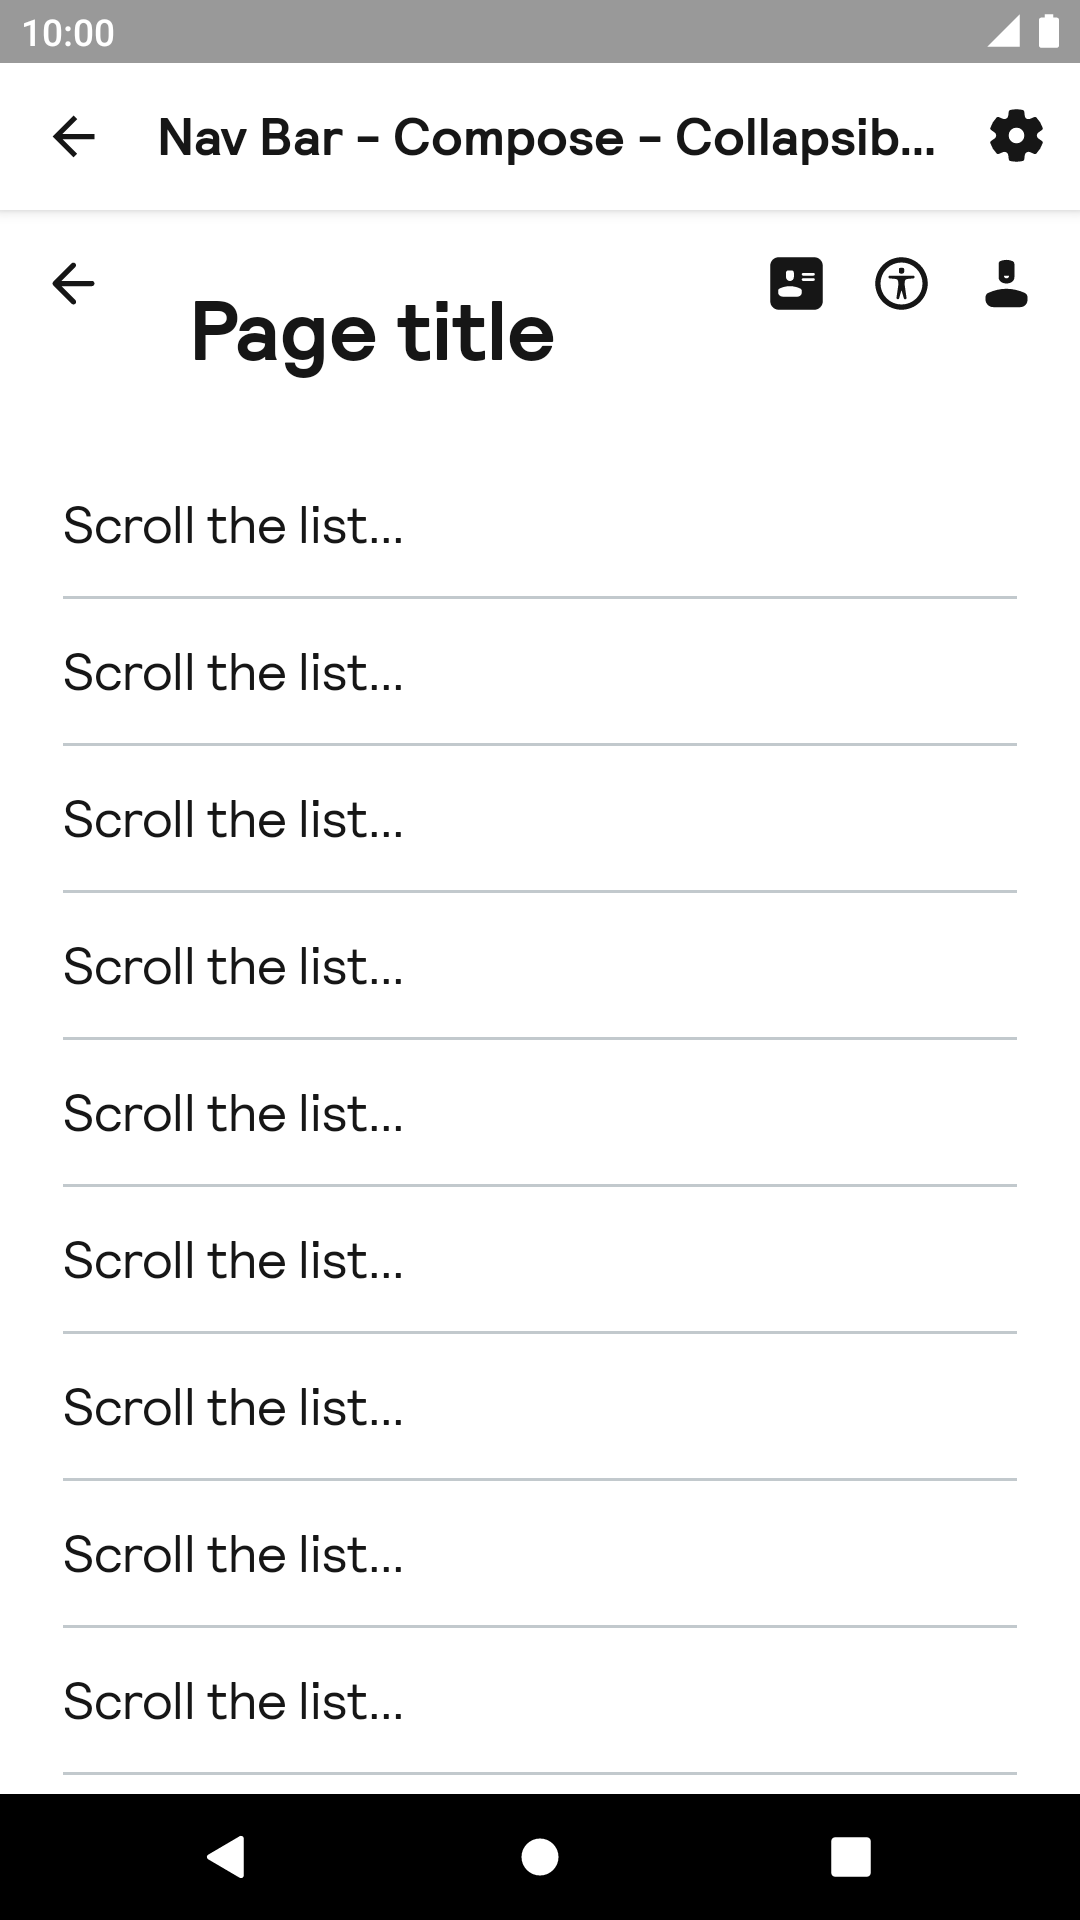
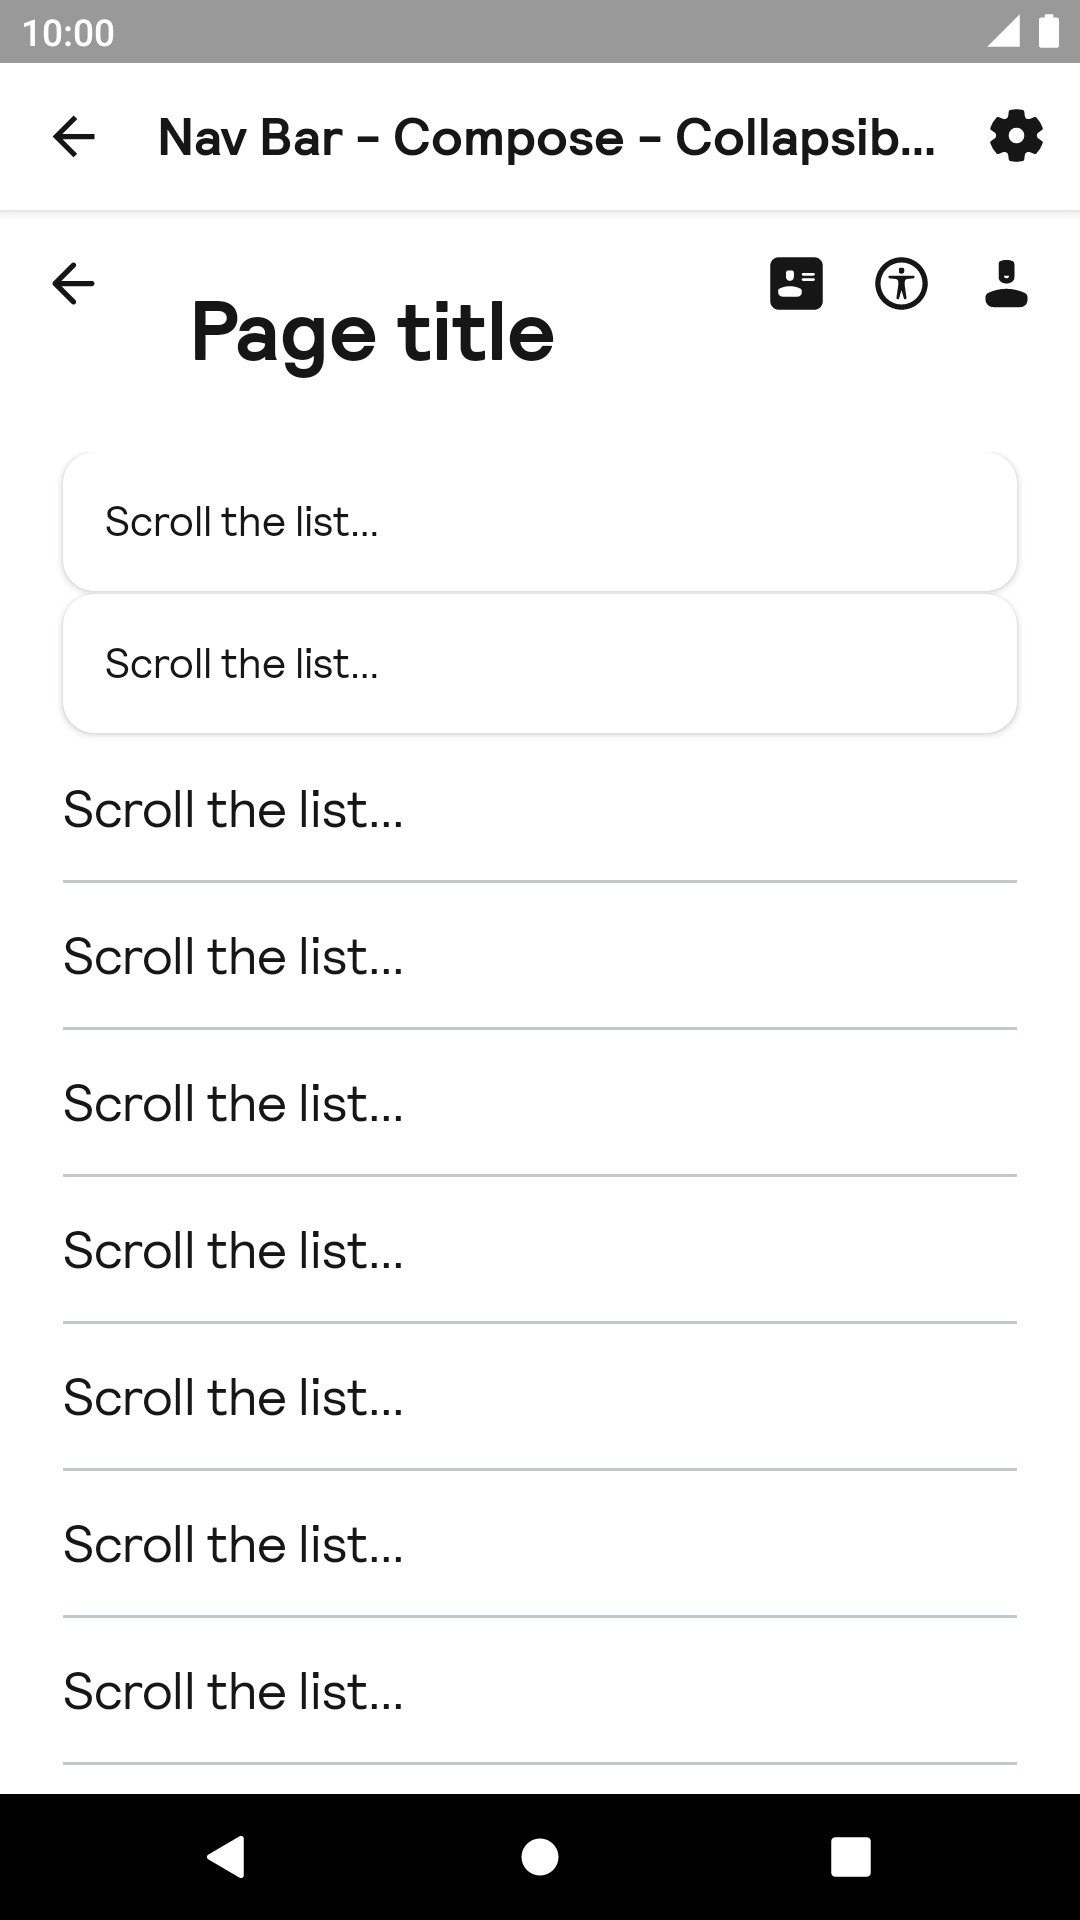
SONIC-1362 Fix BpkTopNavBar scrollable elevation (#1436)
* SONIC-1362 add zIndex to BpkTopNavBarImpl to draw it on top of other components

* SONIC-1362 add zIndex to BpkTopNavBarImpl to draw it on top of other components

* SONIC-1362 add new screenshots

* SONIC-1362 change zIndex value to 1f

---------

diff --git a/app/src/main/java/net/skyscanner/backpack/demo/compose/CollapsibleNavigationBarStory.kt b/app/src/main/java/net/skyscanner/backpack/demo/compose/CollapsibleNavigationBarStory.kt
@@ -20,12 +20,17 @@ package net.skyscanner.backpack.demo.compose
 
 import androidx.compose.foundation.layout.Column
 import androidx.compose.foundation.layout.WindowInsets
+import androidx.compose.foundation.layout.fillMaxWidth
+import androidx.compose.foundation.layout.padding
 import androidx.compose.foundation.layout.statusBars
 import androidx.compose.foundation.lazy.LazyColumn
 import androidx.compose.runtime.Composable
 import androidx.compose.ui.Modifier
+import androidx.compose.ui.draw.alpha
 import androidx.compose.ui.res.stringResource
 import androidx.compose.ui.tooling.preview.Preview
+import net.skyscanner.backpack.compose.card.BpkCard
+import net.skyscanner.backpack.compose.divider.BpkDivider
 import net.skyscanner.backpack.compose.icon.BpkIcon
 import net.skyscanner.backpack.compose.navigationbar.BpkTopNavBar
 import net.skyscanner.backpack.compose.navigationbar.IconAction
@@ -33,9 +38,11 @@ import net.skyscanner.backpack.compose.navigationbar.NavIcon
 import net.skyscanner.backpack.compose.navigationbar.TopNavBarStatus
 import net.skyscanner.backpack.compose.navigationbar.nestedScroll
 import net.skyscanner.backpack.compose.navigationbar.rememberTopAppBarState
+import net.skyscanner.backpack.compose.text.BpkText
 import net.skyscanner.backpack.compose.tokens.Accessibility
 import net.skyscanner.backpack.compose.tokens.Account
 import net.skyscanner.backpack.compose.tokens.AccountIdCard
+import net.skyscanner.backpack.compose.tokens.BpkDimension
 import net.skyscanner.backpack.demo.R
 
 @Composable
@@ -66,11 +73,17 @@ fun CollapsibleNavigationBarStory(
     )
     if (showList) {
       LazyColumn {
-        item {
-          ListItem(title = stringResource(R.string.generic_scroll_the_list))
-        }
-        item {
-          ListItem(title = stringResource(R.string.generic_scroll_the_list))
+        items(count = 2) {
+          BpkCard(
+            modifier = Modifier
+              .fillMaxWidth()
+              .padding(horizontal = BpkDimension.Spacing.Lg),
+          ) {
+            Column {
+              BpkText(text = stringResource(R.string.generic_scroll_the_list))
+            }
+          }
+          BpkDivider(Modifier.alpha(0f))
         }
         items(100) {
           ListItem(title = stringResource(R.string.generic_scroll_the_list))

diff --git a/backpack-compose/src/main/kotlin/net/skyscanner/backpack/compose/navigationbar/internal/BpkTopNavBarImpl.kt b/backpack-compose/src/main/kotlin/net/skyscanner/backpack/compose/navigationbar/internal/BpkTopNavBarImpl.kt
@@ -37,6 +37,7 @@ import androidx.compose.ui.semantics.Role
 import androidx.compose.ui.text.lerp
 import androidx.compose.ui.text.style.TextOverflow
 import androidx.compose.ui.unit.dp
+import androidx.compose.ui.zIndex
 import net.skyscanner.backpack.compose.icon.BpkIcon
 import net.skyscanner.backpack.compose.icon.BpkIconSize
 import net.skyscanner.backpack.compose.navigationbar.Action
@@ -64,7 +65,7 @@ internal fun BpkTopNavBarImpl(
     contentColor = BpkTheme.colors.textPrimary,
     elevation = animateDpAsState(targetValue = if (fraction == 0f) BpkDimension.Elevation.Sm else 0.dp).value,
     shape = RectangleShape,
-    modifier = modifier,
+    modifier = modifier.zIndex(1f),
   ) {
 
     val titleStyle = lerp(
